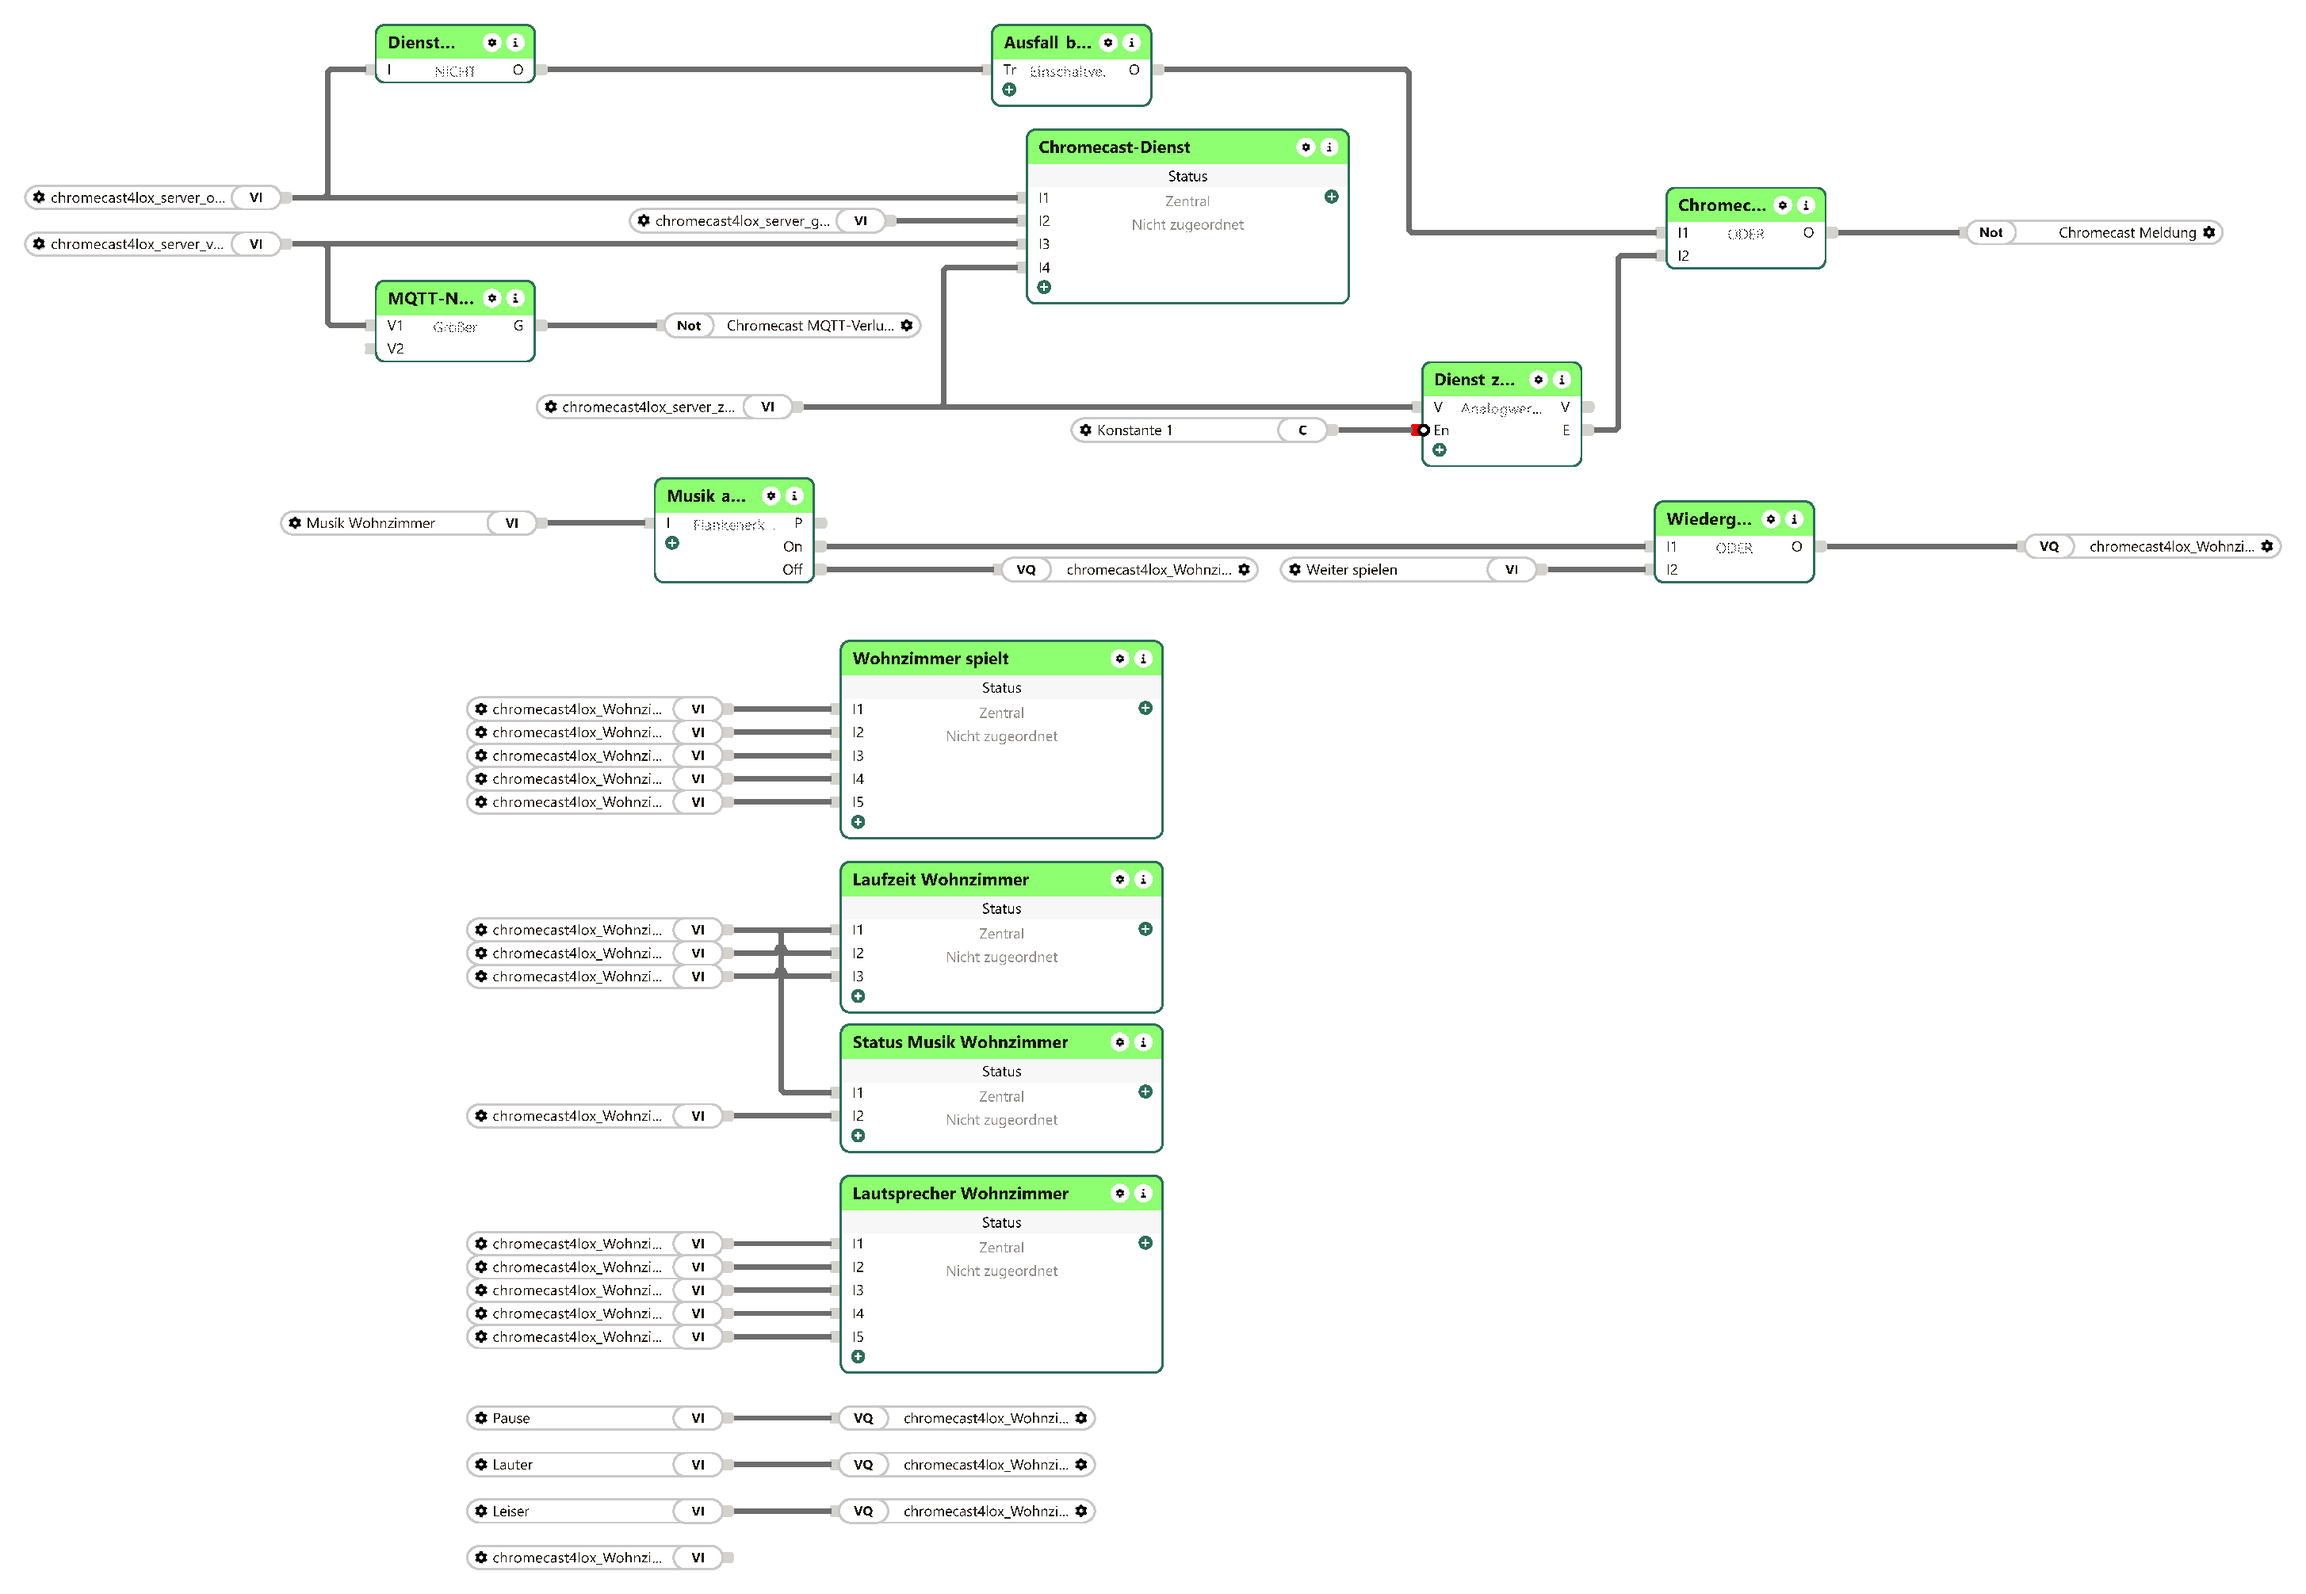
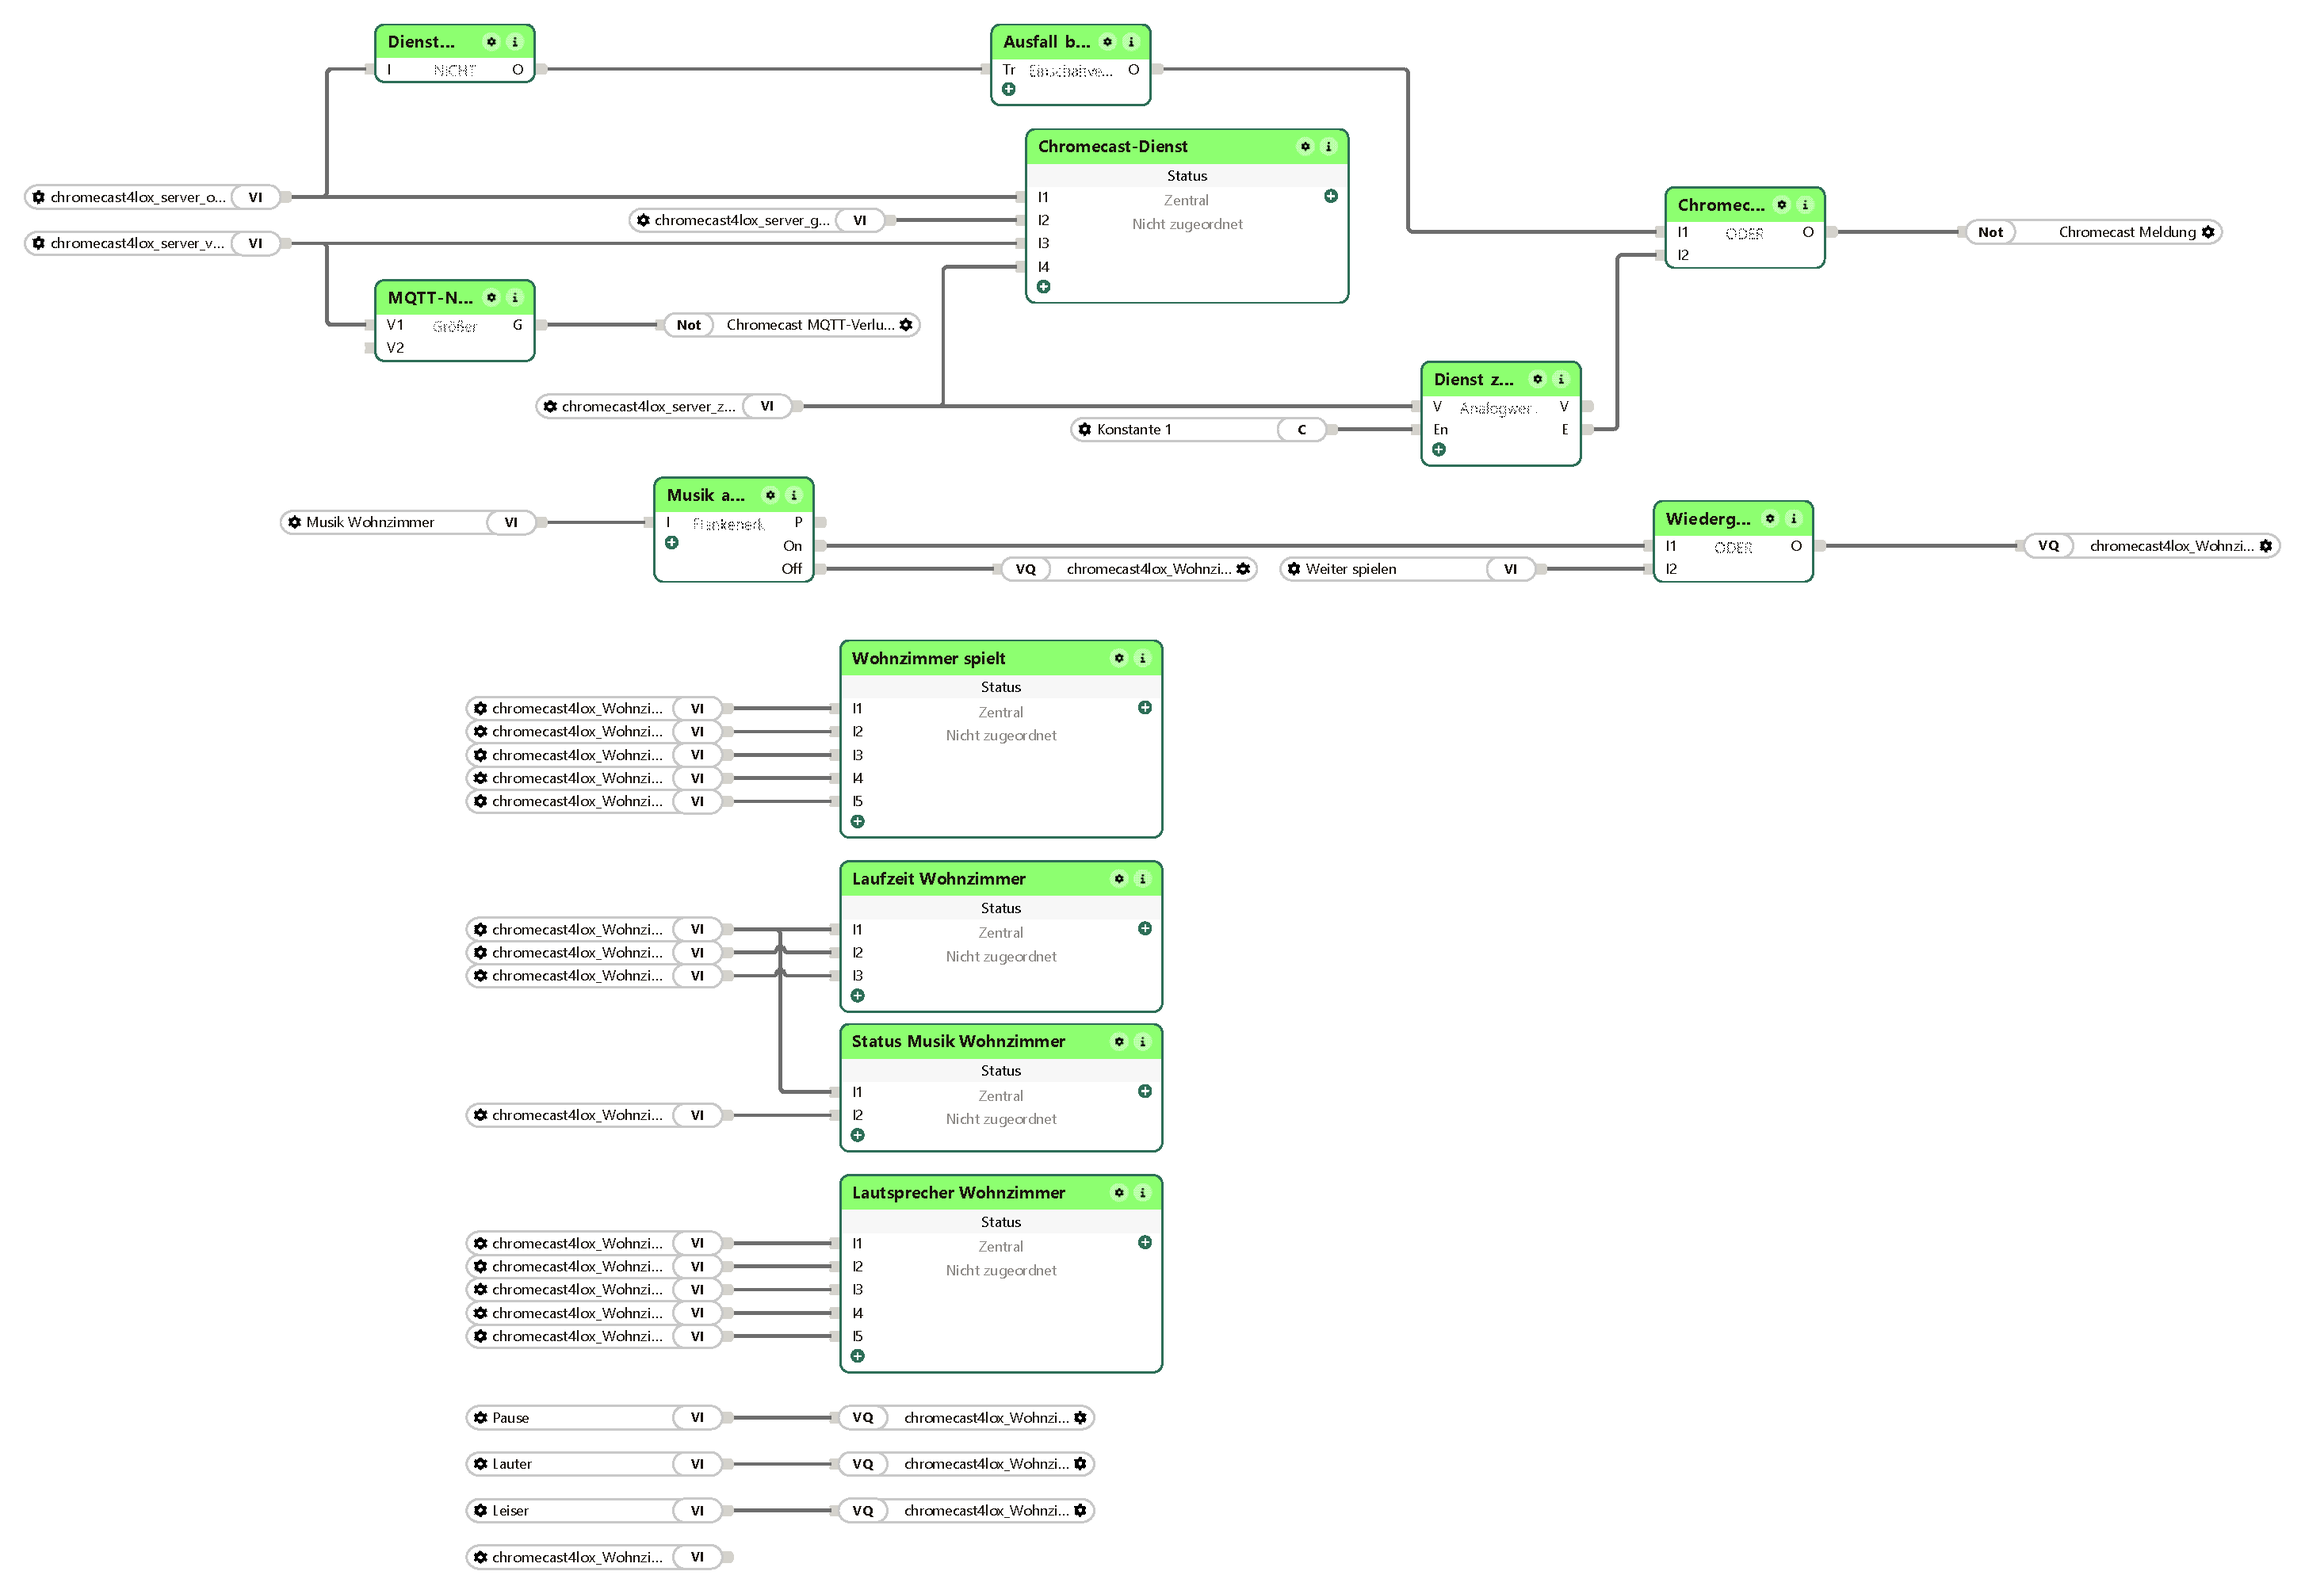
Chromecast4lox 1.3.23: Einbindung: Eingang En der Analogwertvalidierung nicht negieren (Hinweis, Bild)
Einbindung in Loxone: Eingang En der Analogwertvalidierung nicht negieren (Hinweis und Bild); ohne diese Korrektur löste die Ausfallmeldung nie aus.
Config legt den Eingang En negiert an – die Konstante 1 kam dann als 0 an, und „Dienst zählt nicht mehr“ (#16 der Seite „Chromecast4lox“) prüfte
die Zeit Tmc nicht. Wer die Seite schon gebaut hat: Haken bei ‚En‘ entfernen (Eigenschaftsfenster, Parameter). Das Bild zeigt den Eingang
jetzt ohne Negation. Plugin-Verhalten unverändert.

diff --git a/webfrontend/htmlauth/index.php b/webfrontend/htmlauth/index.php
@@ -1261,6 +1261,7 @@ $cc_bs_seiten = array(
             sprintf(cc_t('BAUSTEIN.H_MUSIK'), cc_e($cc_praefix), cc_e($cc_praefix)),
             cc_t('BAUSTEIN.H_ODER'),
             cc_t('BAUSTEIN.H_KONSTANTE'),
+            cc_t('BAUSTEIN.H_EN_NEGIERT'),
             cc_t('BAUSTEIN.H_RUHE'),
             sprintf(cc_t('BAUSTEIN.H_RUECKMELDUNG'), $cc_bs_g . 'last_error'),
         )),

diff --git a/README.md b/README.md
@@ -23,6 +23,13 @@ auf den Seiten „Chromecast4lox“ und „Chromecast4lox Steuerung“ im
 [LoxBerry-Plugins Musterprojekt](https://github.com/timanders22/LoxBerry-Plugins-Musterprojekt),
 einer gemeinsamen Projektdatei mit allen Plugin-Seiten und Vorlagen.
 
+## Neu in 1.3.23
+
+Einbindung in Loxone: Eingang En der Analogwertvalidierung nicht negieren (Hinweis und Bild); ohne diese Korrektur löste die Ausfallmeldung nie aus.
+Config legt den Eingang En negiert an – die Konstante 1 kam dann als 0 an, und „Dienst zählt nicht mehr“ (#16 der Seite „Chromecast4lox“) prüfte
+die Zeit Tmc nicht. Wer die Seite schon gebaut hat: Haken bei ‚En‘ entfernen (Eigenschaftsfenster, Parameter). Das Bild zeigt den Eingang
+jetzt ohne Negation. Plugin-Verhalten unverändert.
+
 ## Neu in 1.3.22
 
 Gleichstand mit Alexa-NG für die Richtung Loxone → Google (Bauschritte B1 bis B3 aus dem Entwurf
